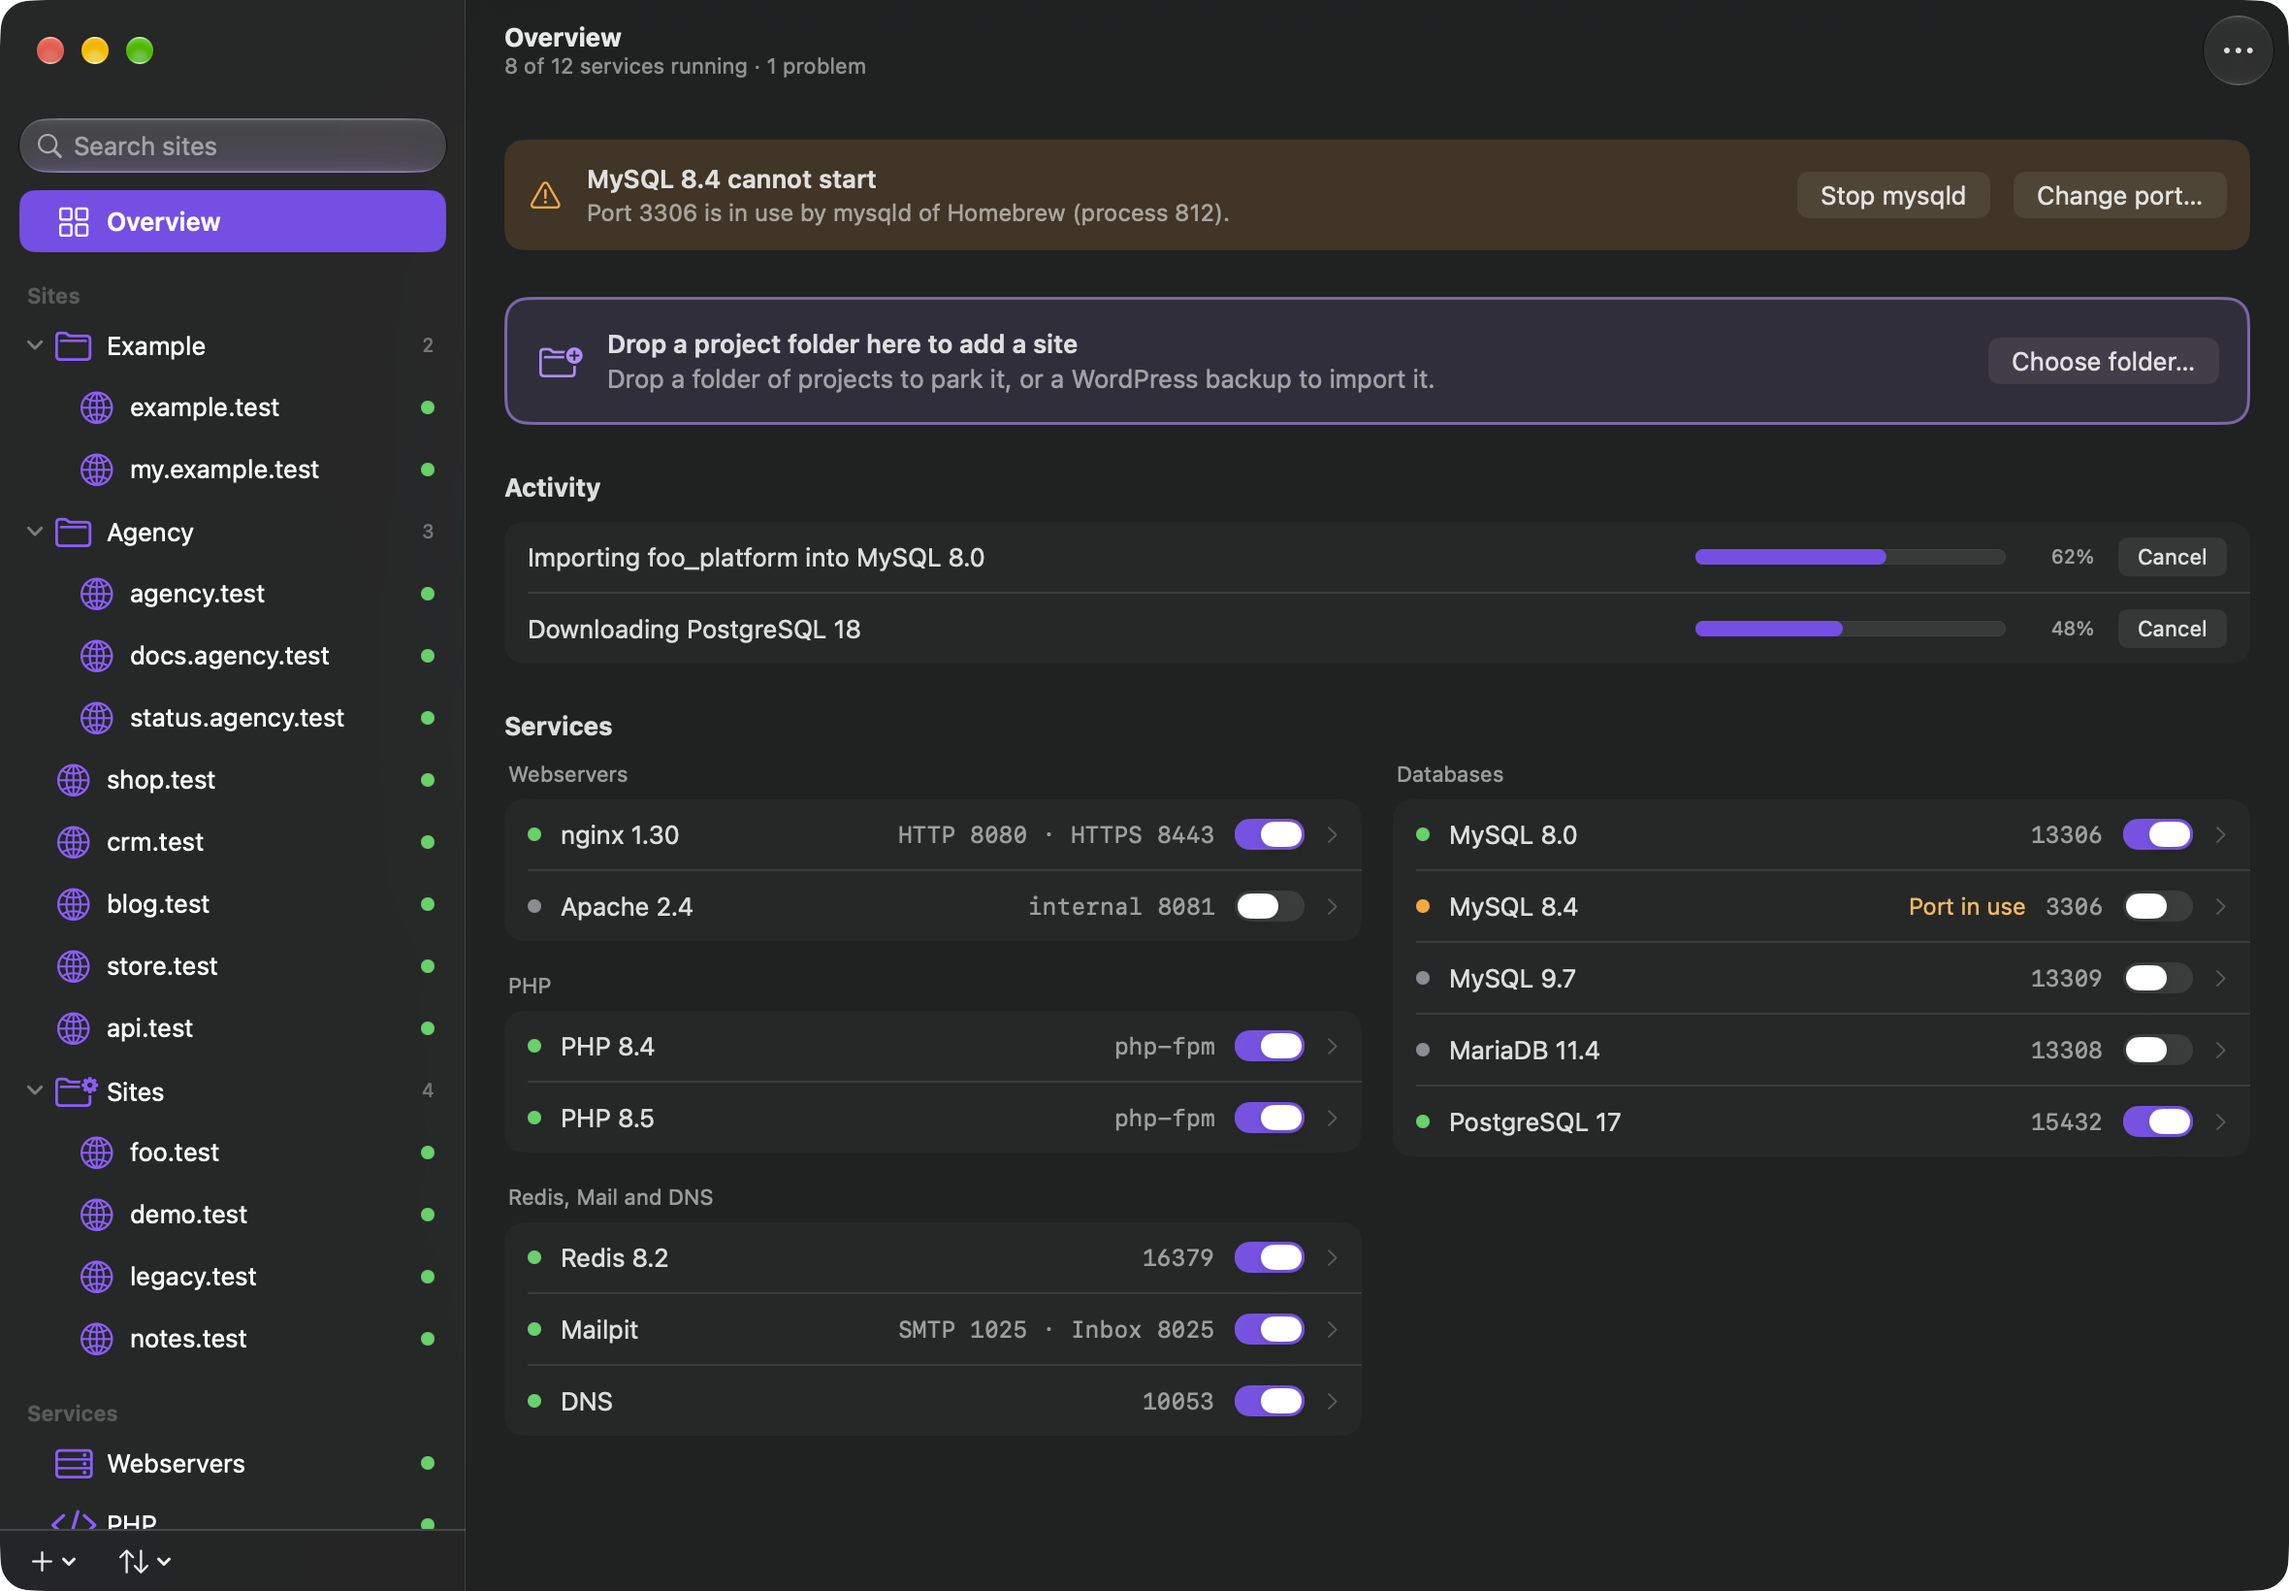
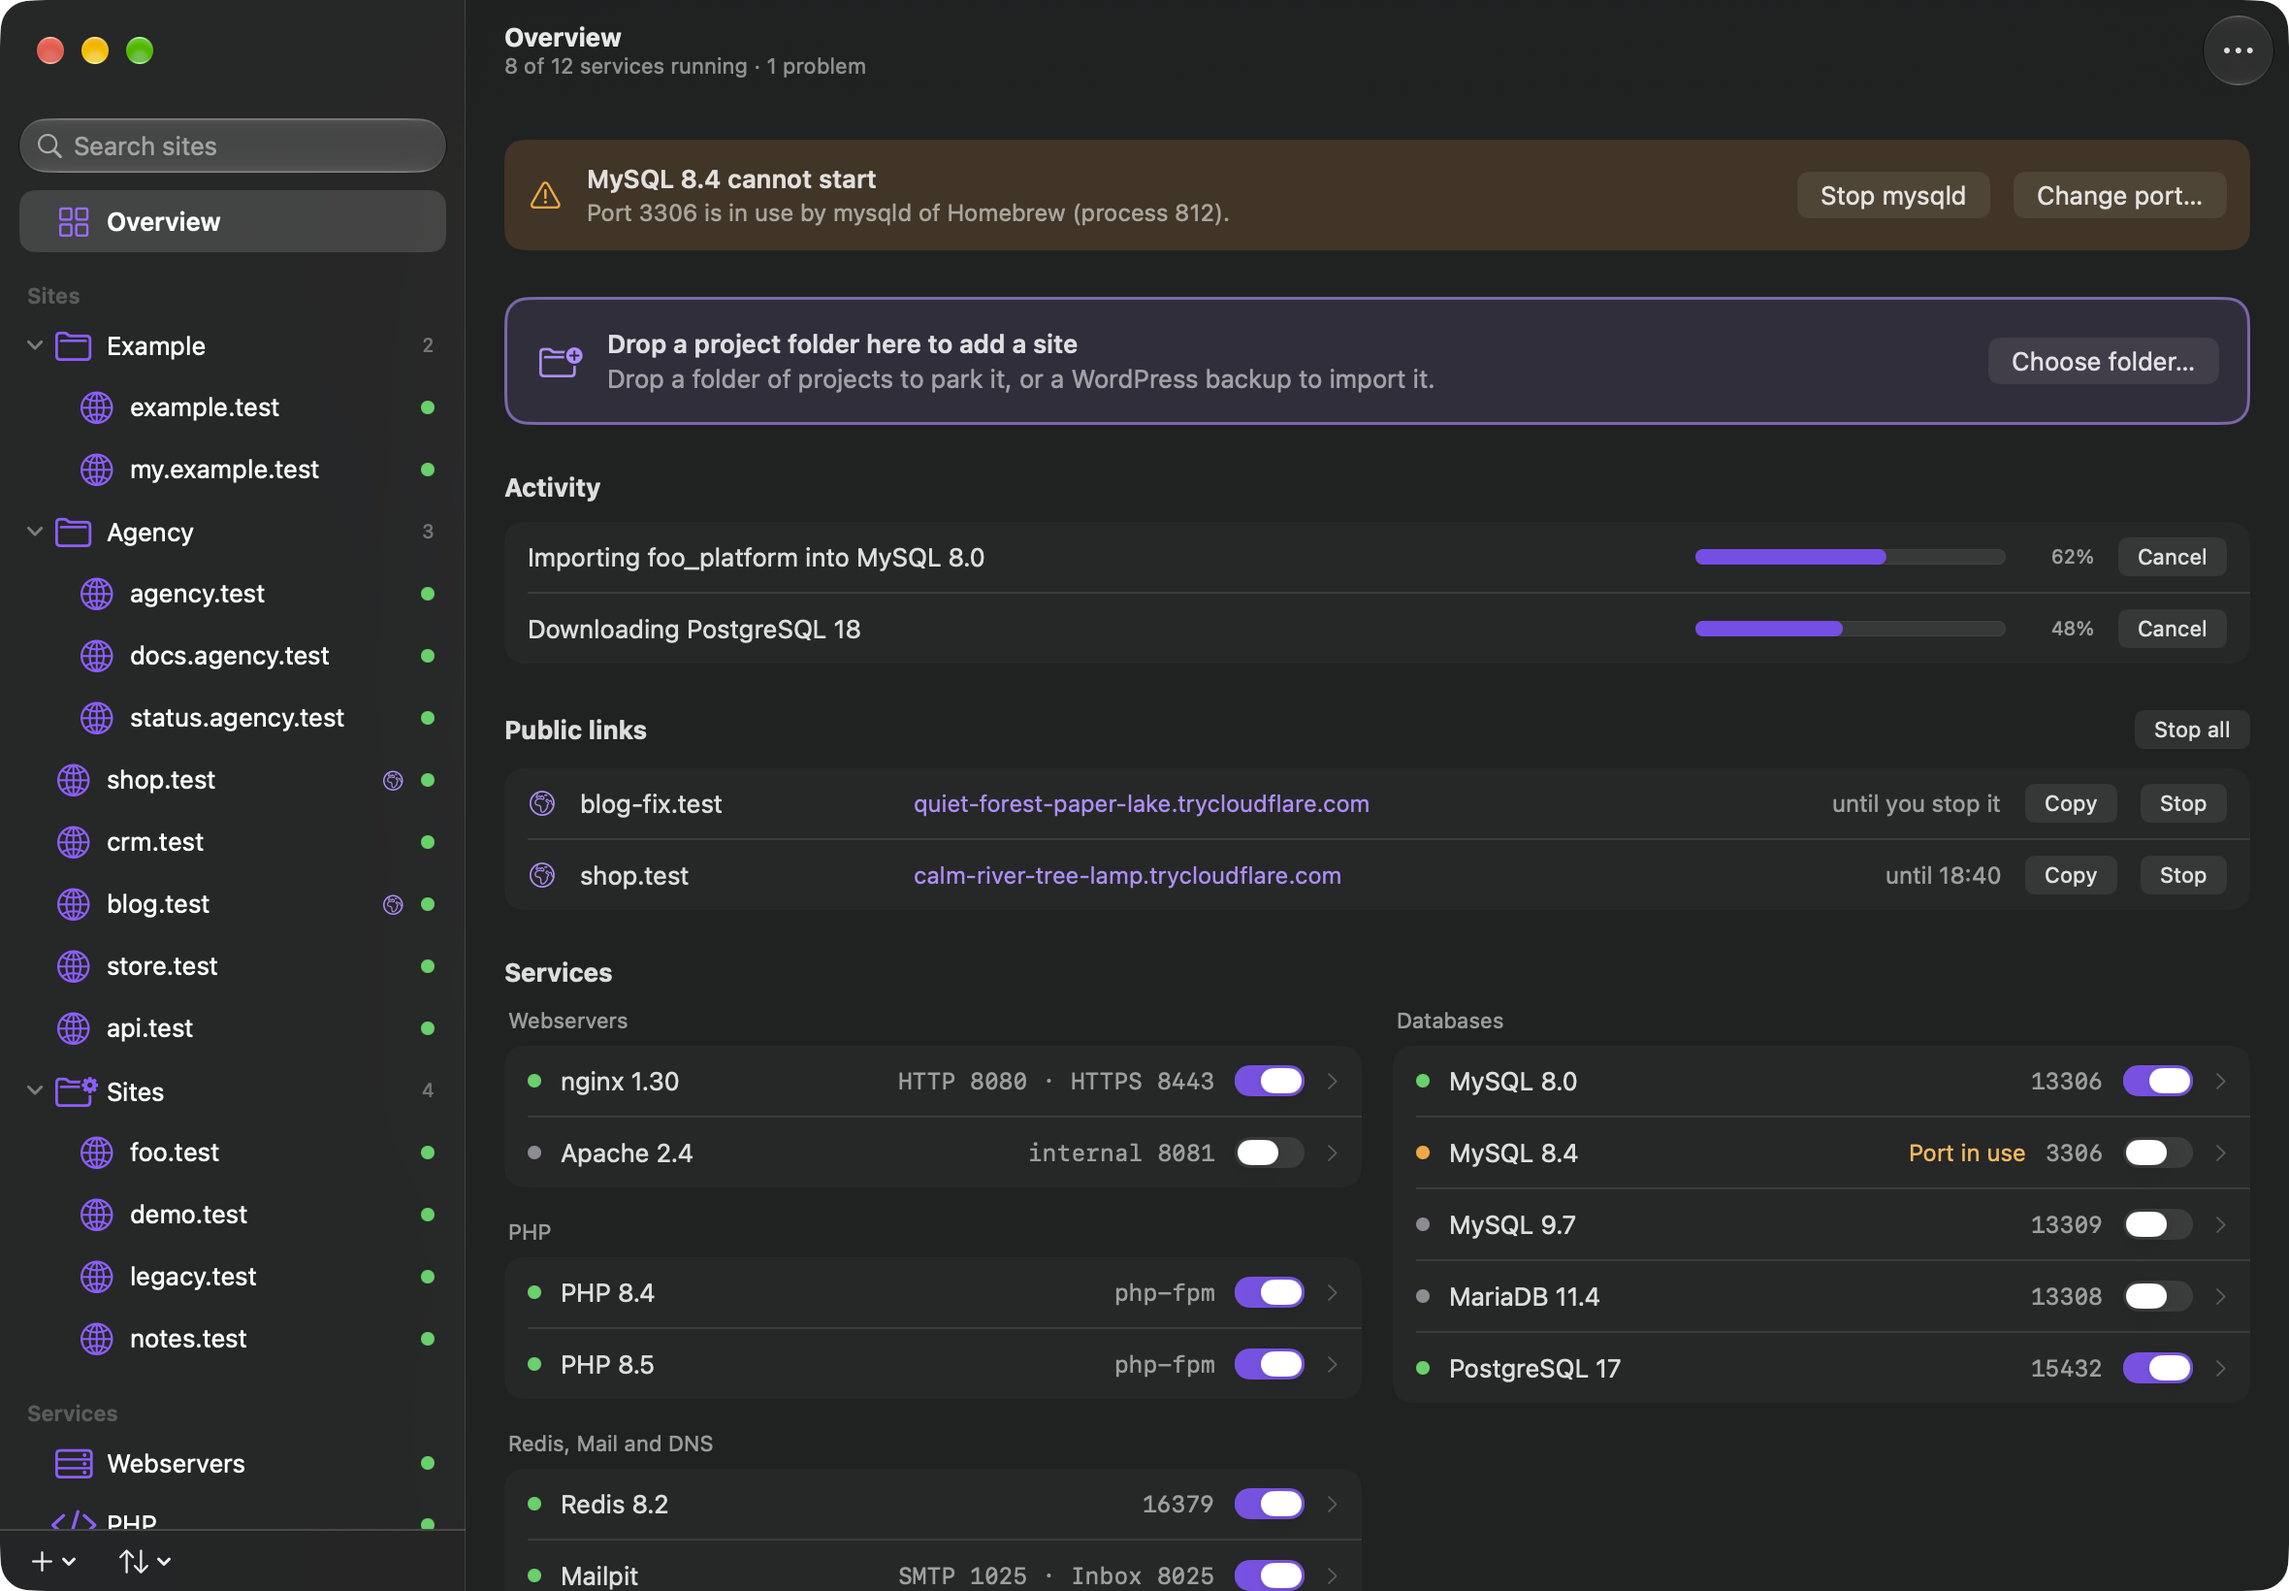
Bring the README up to date with 0.7.0

diff --git a/README.md b/README.md
@@ -23,7 +23,7 @@
   <sub>Public beta · Mac with Apple silicon · macOS 27 or later · MIT license</sub>
 </p>
 
-![The Overview screen of Nexus in dark mode with the sites and the services](.github/overview.png)
+![The Overview screen of Nexus in dark mode with the sites, the public links and the services](.github/overview.png)
 
 ## Why Nexus
 
@@ -38,6 +38,8 @@
   the errors, the dumps and the mail of your sites. You decide what an agent can do.
 - 🐞 **See what your code does.** Each `dump()`, query, log line and queue job of a request in one
   place. Xdebug runs only when you debug.
+- 🔗 **Share a site with one click.** Send a client or your phone a public link to a local site. With
+  a password, hidden errors and the requests of each webhook.
 - 🧱 **WordPress, done right.** Bedrock, multisite on subdomains and WP-CLI. Change the URLs in one
   click. Changed your mind? Undo it.
 - 📥 **Import a WordPress backup.** From Local, Studio, Jetpack or All-in-One WP Migration.
@@ -148,6 +150,23 @@ an N+1 query. A click on a file opens your code editor at that line.
 - **Xdebug only when you debug.** Only a request that starts a debug session uses Xdebug. So your
   normal pages stay fast. `nexus debug artisan my:command` runs one command with Xdebug.
 
+## 🔗 Share a site
+
+![The Site screen of shop.test with its public link, the QR code and the visitors](.github/share.png)
+
+Click Share on the Site screen, or run `nexus share` in the folder of a site. Nexus opens a public
+link through Cloudflare. You need no account. Send the address to a client, a colleague or your
+phone.
+
+- **Visitors see only the site.** Error details and tools such as Telescope stay hidden. A password
+  keeps other people out. Webhooks still reach the site.
+- **The site works through the link.** Laravel sees the public address. Nexus changes the addresses
+  in the pages of WordPress and other sites. Vite keeps hot reload on for you.
+- **Check a webhook.** The dump viewer can keep each request of a link with its headers, its body
+  and its dumps.
+- **Your own domain.** With a domain at Cloudflare a link keeps a fixed address, for example
+  `shop.example.com`.
+
 ## 🧱 WordPress, done right
 
 - Nexus finds WordPress and Bedrock sites. It gives them the right web rules on nginx and Apache.
@@ -255,6 +274,7 @@ nexus composer install        # Composer with that PHP
 nexus wp plugin list          # WP-CLI with that PHP
 nexus errors                  # the newest errors of the site in this folder
 nexus dumps --follow          # each new dump of your sites
+nexus share                   # a public link to the site in this folder
 nexus debug artisan my:task   # one command with Xdebug
 ```
 
